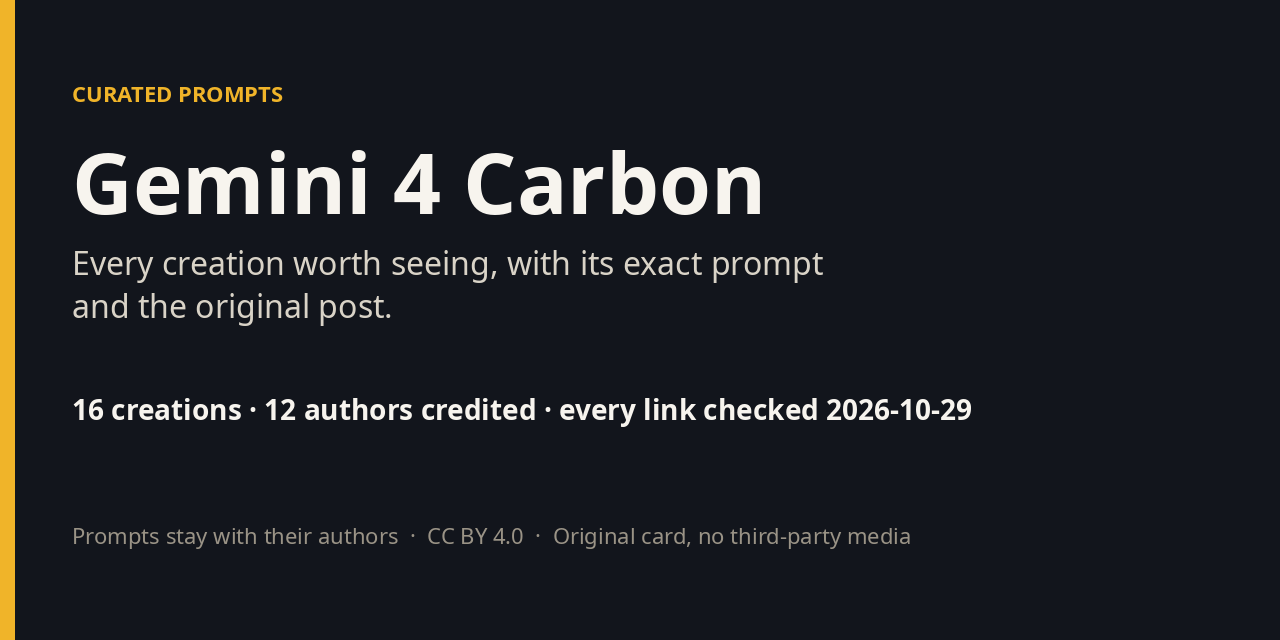
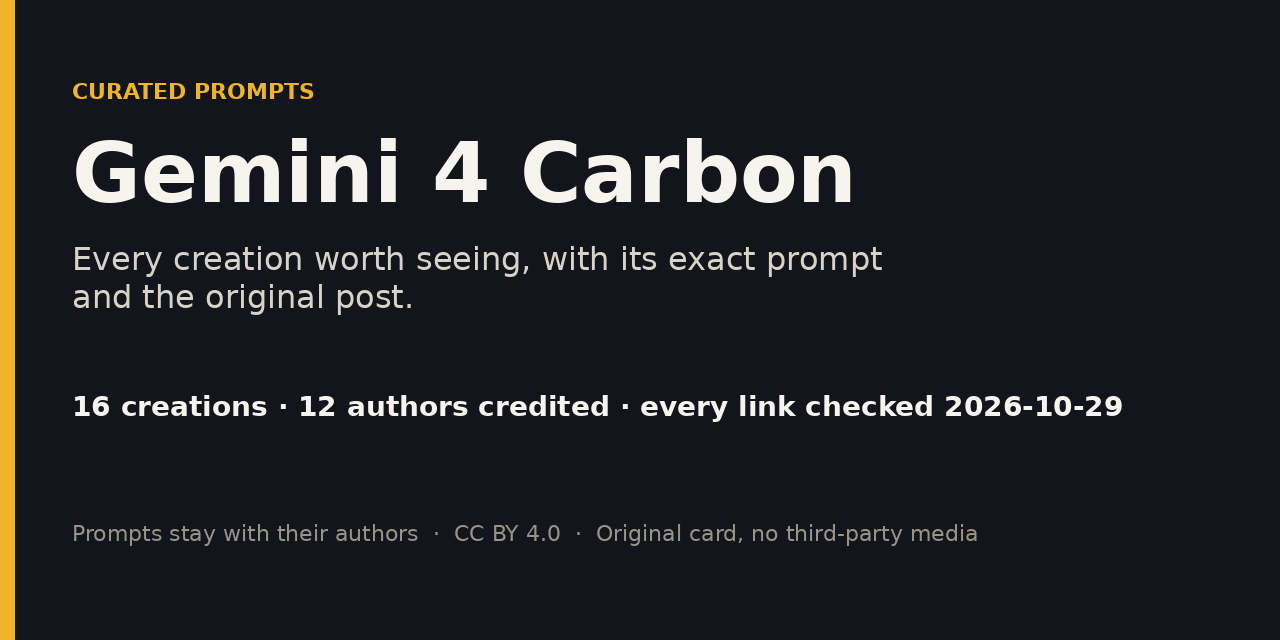
docs: say Opus side-by-side is only where the author posted one

diff --git a/scripts/build_readme.py b/scripts/build_readme.py
@@ -186,7 +186,7 @@ def render_readme(entries: list[dict]) -> str:
 
 # Awesome Gemini 4 Carbon
 
-Every Gemini 4 Carbon creation worth seeing, each with its exact prompt, the original post and an Opus 5.5 side-by-side.
+Gemini 4 Carbon creations worth seeing, each with its exact prompt and the original post, plus an Opus 5.5 side-by-side where the author posted one.
 
 ![Gemini 4 Carbon curated prompt card: {proof}](assets/social-preview.png)
 

diff --git a/README.md b/README.md
@@ -2,7 +2,7 @@
 
 # Awesome Gemini 4 Carbon
 
-Every Gemini 4 Carbon creation worth seeing, each with its exact prompt, the original post and an Opus 5.5 side-by-side.
+Gemini 4 Carbon creations worth seeing, each with its exact prompt and the original post, plus an Opus 5.5 side-by-side where the author posted one.
 
 ![Gemini 4 Carbon curated prompt card: 16 creations · 12 authors credited · every link checked 2026-10-29](assets/social-preview.png)
 
